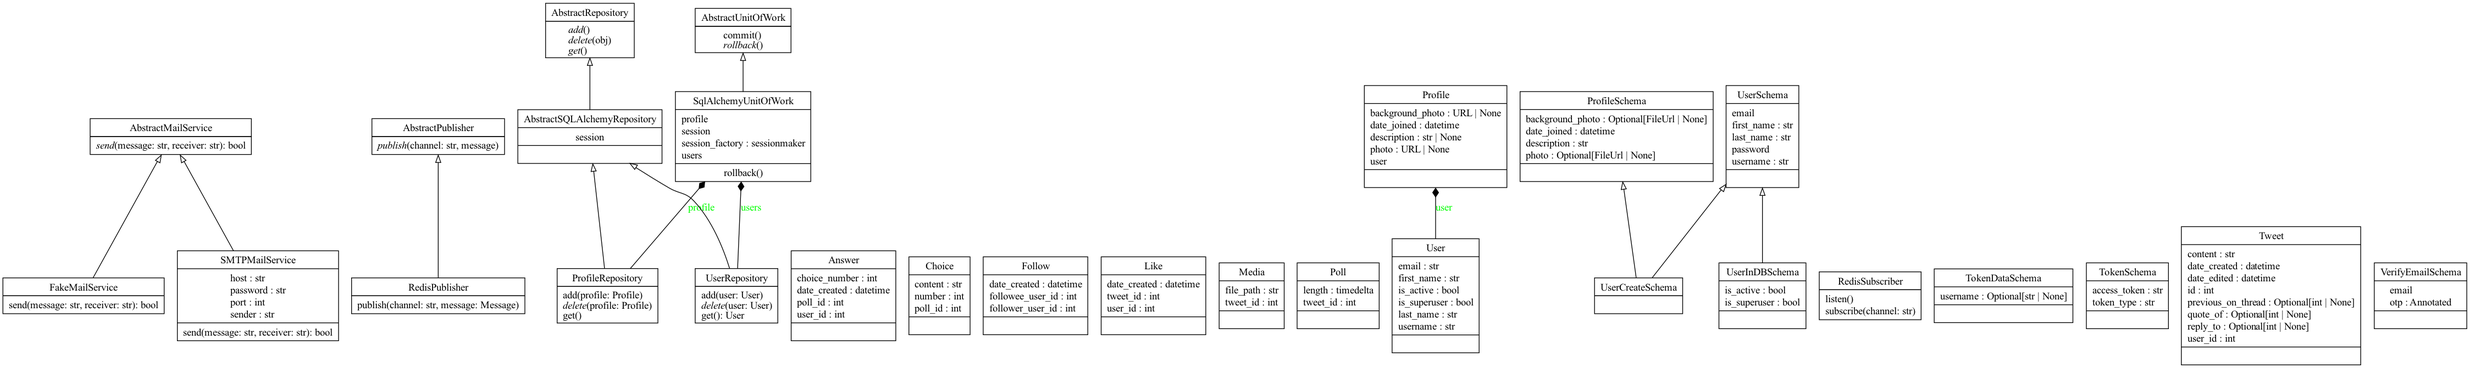
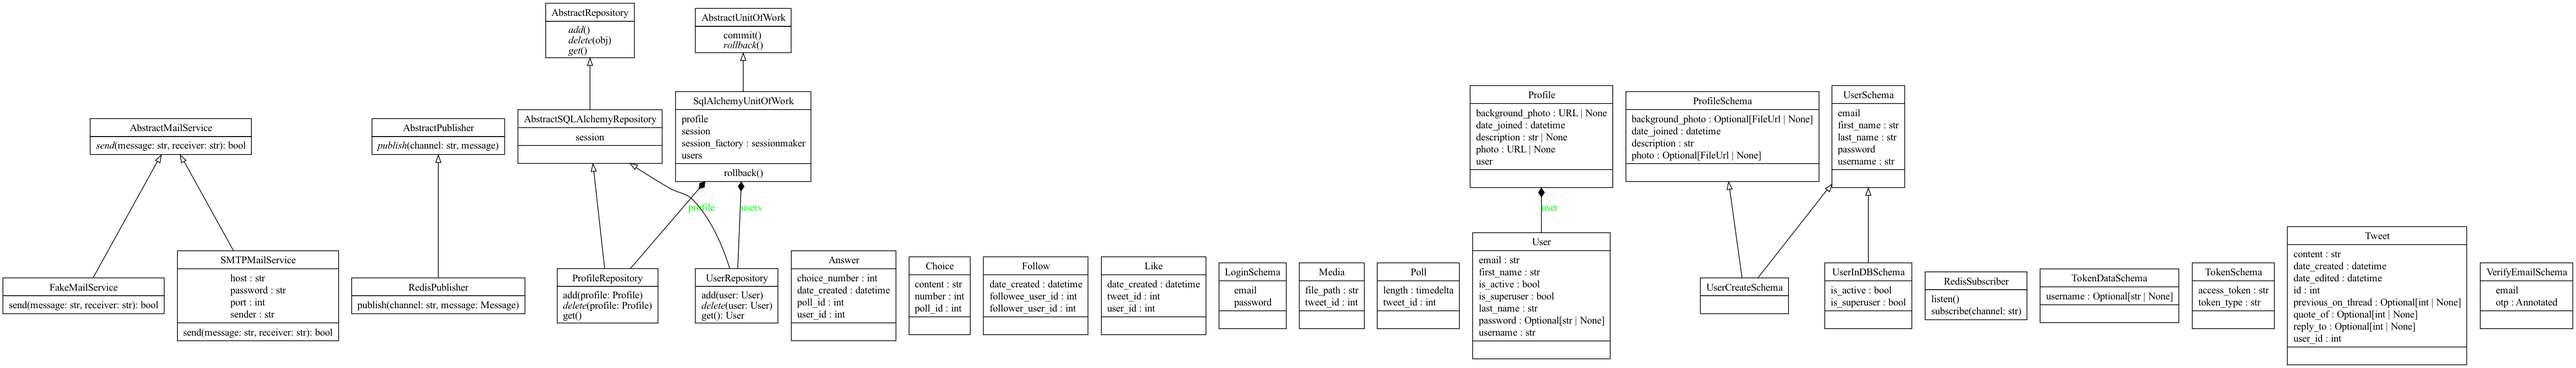
auth fixes

diff --git a/twitter/entrypoints/fastapi_app/routers/auth.py b/twitter/entrypoints/fastapi_app/routers/auth.py
@@ -4,7 +4,8 @@ from fastapi import APIRouter, Response
 
 from ....config import REDIS_EMAIL_VER_CHANNEL, get_redis_uri
 from ....domain.auth import Profile, User
-from ....presentation.schemas.auth import UserCreateSchema, VerifyEmailSchema
+from ....presentation.schemas.auth import (LoginSchema, UserCreateSchema,
+                                           VerifyEmailSchema)
 from ....services.auth import otp
 from ....services.email.publisher import RedisPublisher
 from ....services.unit_of_work import SqlAlchemyUnitOfWork
@@ -56,6 +57,7 @@ async def register(data: UserCreateSchema):
             background_photo=data.background_photo,
             description=data.description,
         )
+        user.set_password(data.password)
         uow.users.add(user)
         uow.profile.add(profile)
         uow.commit()
@@ -74,7 +76,6 @@ async def register(data: UserCreateSchema):
 async def register(data: VerifyEmailSchema):
     with SqlAlchemyUnitOfWork() as uow:
         user = uow.users.get(User.email == data.email)
-        print(user)
         if user is None:
             return Response(
                 content=json.dumps({
@@ -107,3 +108,24 @@ async def register(data: VerifyEmailSchema):
         uow.users.add(user)
         uow.commit()
     return {'detail': 'Successfully activated'}
+
+
+@router.post('/login')
+async def login(data: LoginSchema):
+    with SqlAlchemyUnitOfWork() as uow:
+        user = uow.users.get(User.email == data.email)
+        if user is None:
+            return Response(
+                content=json.dumps({
+                    'detail': [
+                        {
+                            "type":  "user_doesnt_exist",
+                            "loc": ['email'],
+                            'msg': ("User with such"
+                                " email doesn't exist")
+                        }
+                    ]
+                }),
+                status_code=400
+            )
+        

diff --git a/twitter/domain/auth.py b/twitter/domain/auth.py
@@ -3,6 +3,8 @@ from datetime import datetime
 
 from .types import URL
 
+# from ..services.auth import get_password_hash, verify_password
+
 
 @dataclass
 class User:
@@ -12,6 +14,13 @@ class User:
     username: str
     is_active: bool = False
     is_superuser: bool = False
+    password: str | None = None
+
+    # def set_password(self, password: str) -> None:
+    #     self.password = get_password_hash(password)
+    
+    # def verify_password(self, password):
+    #     return verify_password(password, self.password)
 
 
 @dataclass

diff --git a/twitter/presentation/schemas/auth.py b/twitter/presentation/schemas/auth.py
@@ -51,3 +51,8 @@ OTP = Annotated[str, AfterValidator(verify_otp)]
 class VerifyEmailSchema(BaseModel):
     email: EmailStr
     otp: OTP
+
+
+class LoginSchema(BaseModel):
+    email: EmailStr
+    password: SecretStr
